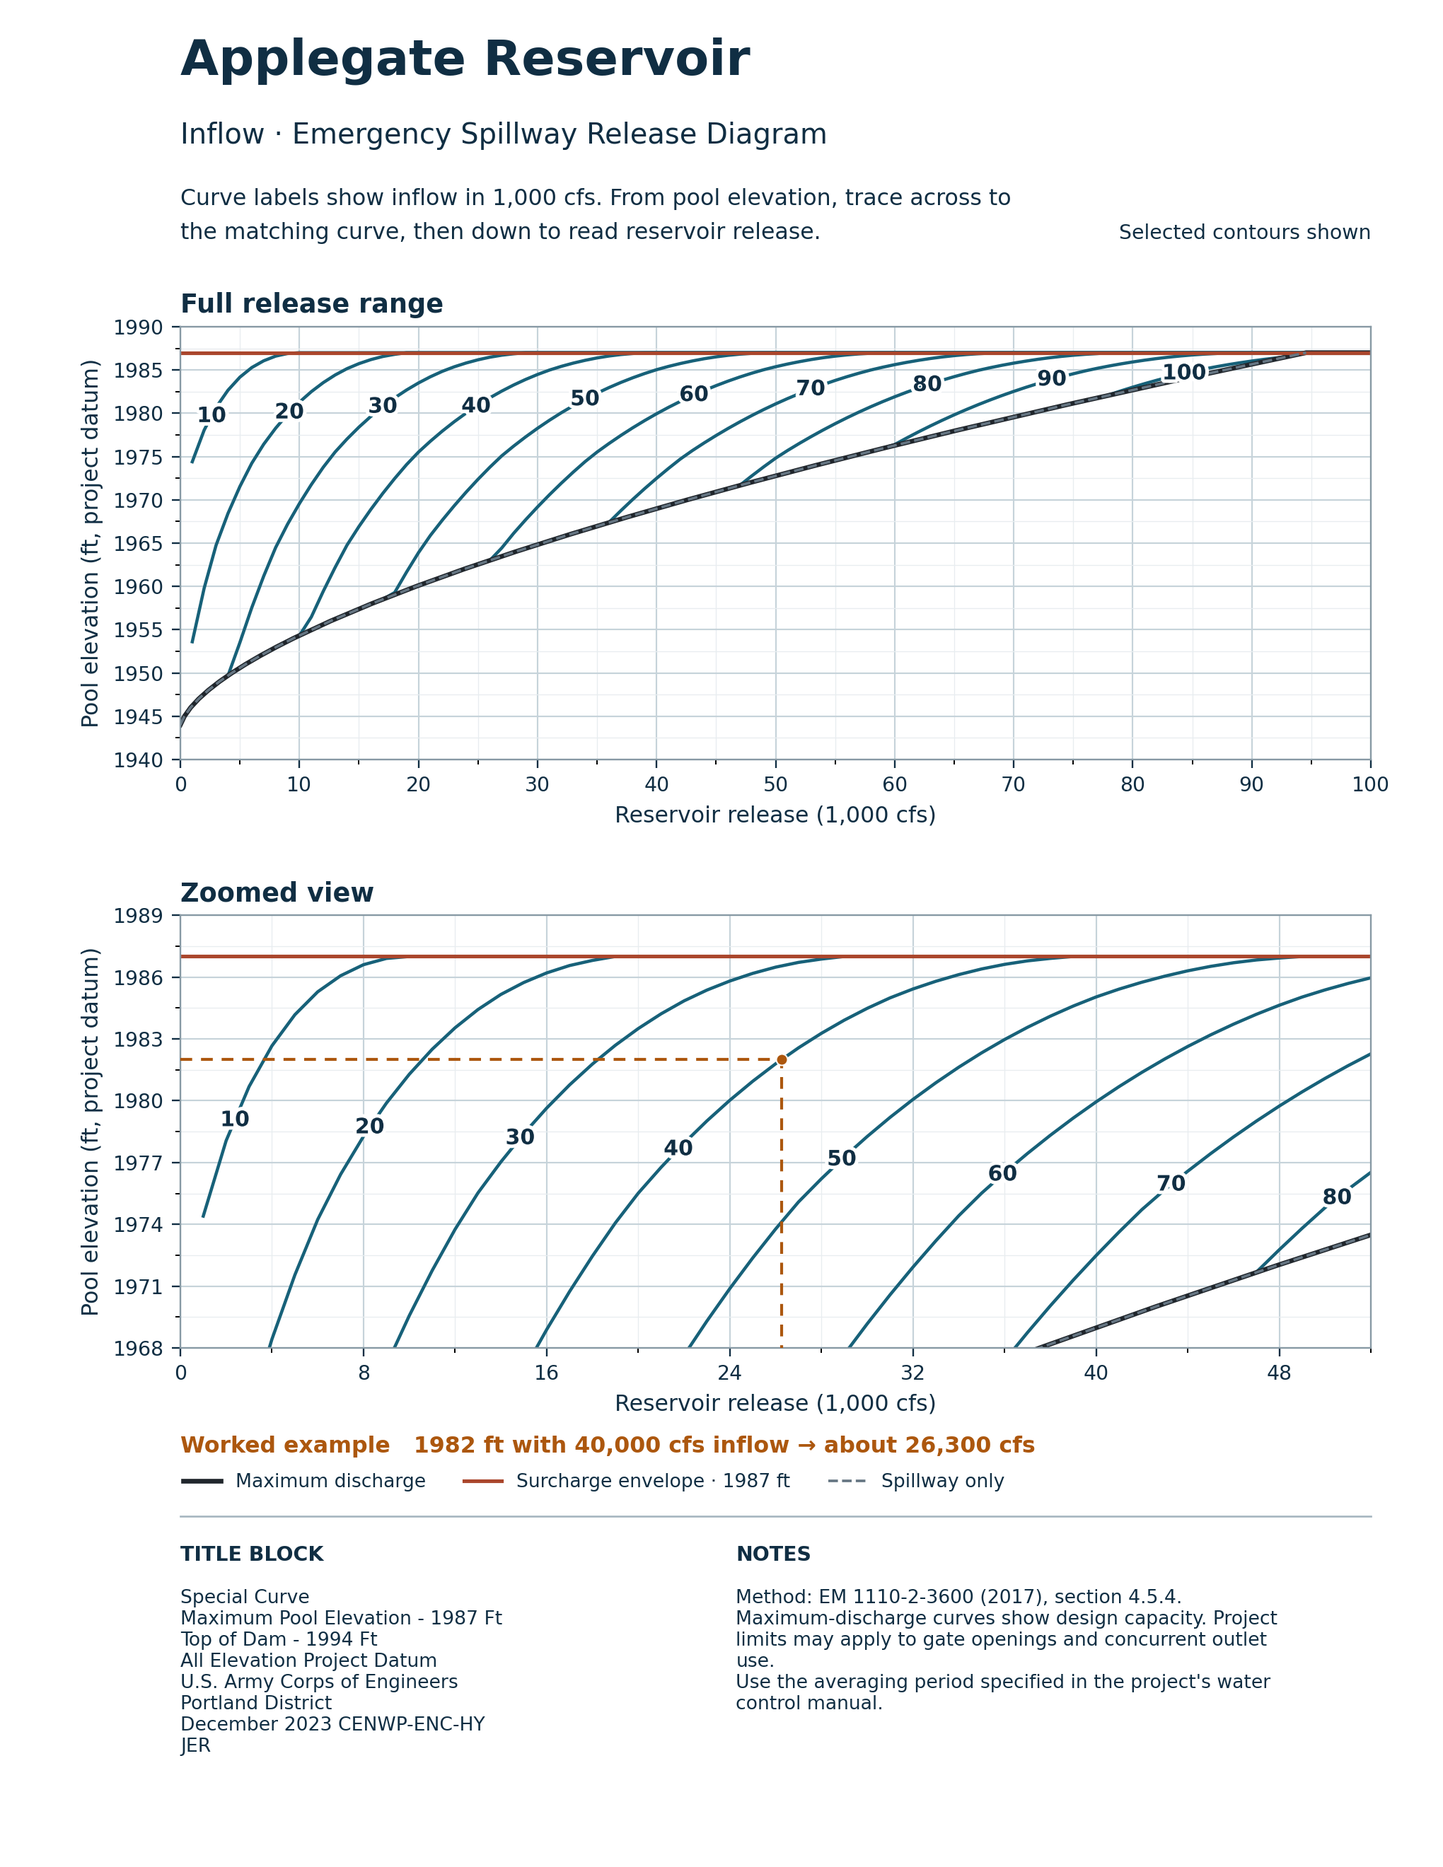
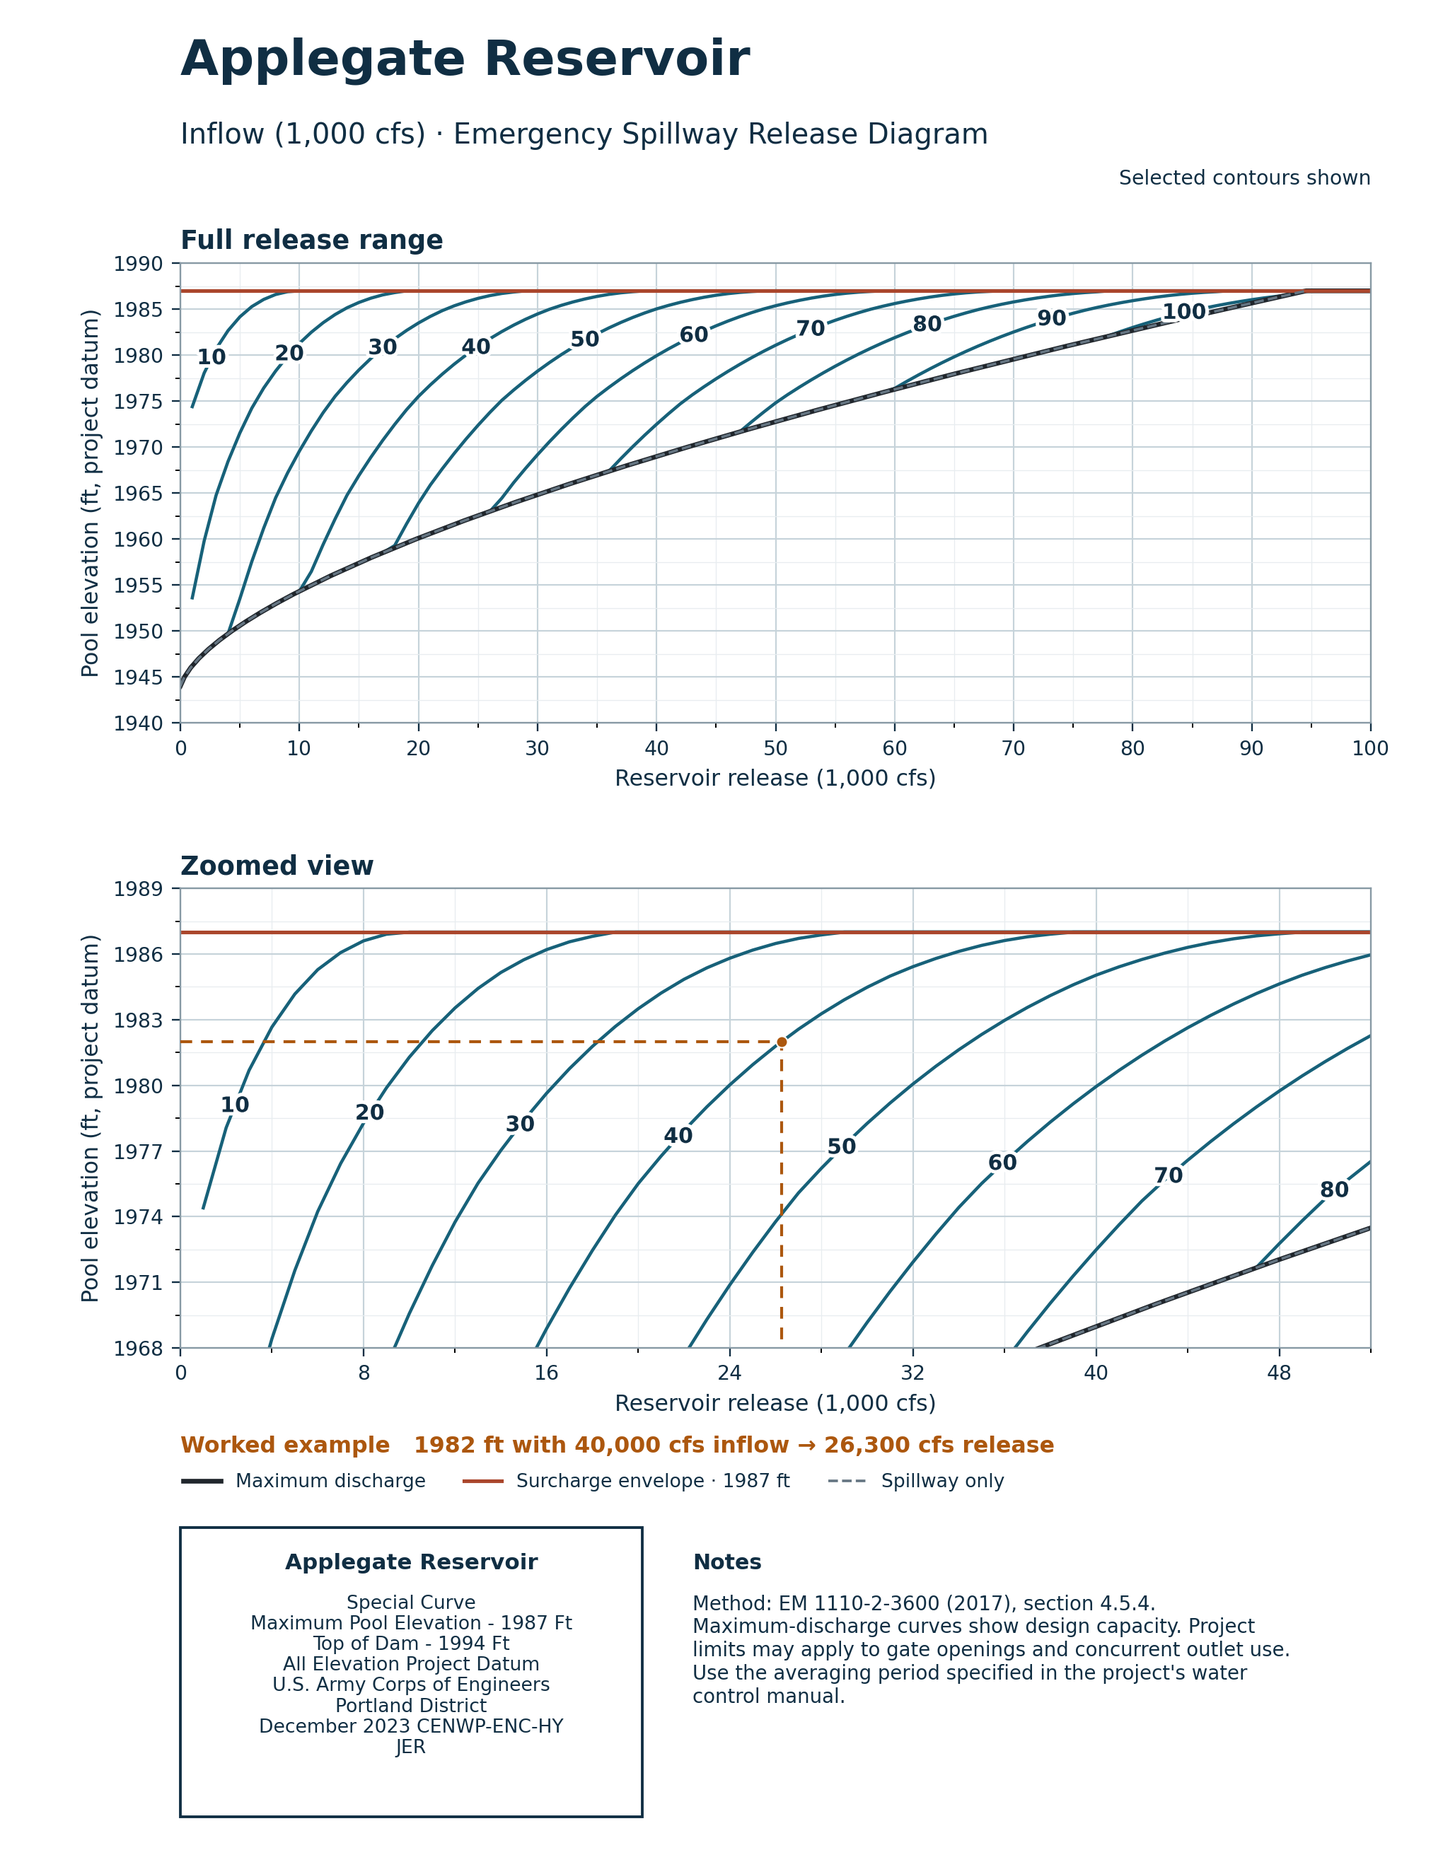
Publish complete ESRD inset and stacked PNG sets

diff --git a/sandbox/cot_reference_sheet.py b/sandbox/cot_reference_sheet.py
@@ -9,7 +9,9 @@ from cot_composite import SOURCE, read_recession_hours, run_legacy
 
 import matplotlib.patheffects as effects
 import matplotlib.pyplot as plt
+from matplotlib.patches import Rectangle
 from matplotlib.ticker import MultipleLocator
+from matplotlib.transforms import Bbox
 import numpy as np
 
 
@@ -203,10 +205,10 @@ def add_example(ax, lines, inflow, code):
     ax.scatter([release], [elevation], s=23, color=EXAMPLE, edgecolor="white",
                linewidth=0.6, zorder=6)
     measurement = f"{float(level) * 1000:,.0f} cfs inflow" if inflow else f"{level} ft/hr pool rise"
-    return f"{elevation:g} ft with {measurement} → about {round(release * 10) * 100:,} cfs"
+    return f"{elevation:g} ft with {measurement} → {round(release * 10) * 100:,} cfs release"
 
 
-def add_title_block(fig, full, inflow, code, *, landscape):
+def add_title_block(fig, full, inflow, code, title, *, landscape):
     """Set the source title-block text beside the interpretation notes."""
     source = full["dfTitleBlock"]
     lines = [" ".join(str(value).split()) for value in source.Text]
@@ -245,40 +247,75 @@ def add_title_block(fig, full, inflow, code, *, landscape):
             "Maximum-discharge curves show design capacity. Project limits may apply to gate openings and concurrent outlet use.",
             "Use the averaging period specified in the project's water control manual.",
         ]
-    x_left = 0.075 if landscape else 0.125
-    headings_y = 0.158 if landscape else 0.164
-    fig.add_artist(plt.Line2D([x_left, 0.95], [headings_y + 0.024] * 2,
-                             transform=fig.transFigure, color="#a6b6c0", lw=0.8))
-    for x, heading, body in (
-        (x_left, "TITLE BLOCK", "\n".join(lines)),
-        (0.51, heading, "\n".join(fill(note, width=76 if landscape else 58) for note in notes)),
-    ):
-        fig.text(x, headings_y, heading, color=INK, fontsize=8.5, weight="bold")
-        fig.text(x, headings_y - 0.015, body, color=INK, fontsize=8, va="top", linespacing=1.2)
+    left = 0.075 if landscape else 0.125
+    width = 0.27 if landscape else 0.32
+    bottom, top = 0.027, 0.182
+    fig.add_artist(Rectangle((left, bottom), width, top - bottom,
+                             transform=fig.transFigure, facecolor="white",
+                             edgecolor=INK, linewidth=1.15))
+    center = left + width / 2
+    fig.text(center, top - 0.014, title, color=INK, fontsize=9.3,
+             weight="bold", ha="center", va="top")
+    fig.text(center, top - 0.036, "\n".join(lines), color=INK, fontsize=8,
+             ha="center", va="top", linespacing=1.16)
+
+    notes_left = left + width + 0.035
+    fig.text(notes_left, top - 0.014, heading.capitalize(), color=INK,
+             fontsize=9, weight="bold", va="top")
+    body = "\n".join(fill(note, width=88 if landscape else 60,
+                          subsequent_indent="   " if note[:1].isdigit() else "")
+                     for note in notes)
+    fig.text(notes_left, top - 0.036, body, color=INK,
+             fontsize=8.3, va="top", linespacing=1.22)
+
+
+def make_inset(fig, main, lines):
+    """Place the zoom only where its panel and tick labels clear the plotted data."""
+    fig.canvas.draw()
+    paths = [line.get_path().transformed(main.transData + main.transAxes.inverted())
+             for line in lines]
+    sizes = ((0.49, 0.42), (0.46, 0.39), (0.43, 0.35))
+    placements = [(width, height, x, y)
+                  for width, height in sizes
+                  for x in (0.97 - width, 0.91 - width, 0.08)
+                  for y in (0.11, 0.18, 0.55)]
+    placements.extend((width, height, x, y)
+                      for width, height in (*sizes, (0.43, 0.32), (0.40, 0.31))
+                      for x in (0.97 - width, 0.91 - width, 0.08)
+                      for y in (0.075, 0.11, 0.18, 0.55))
+    for width, height, x, y in placements:
+        padded = Bbox.from_extents(x - 0.043, y - 0.057,
+                                   x + width + 0.006, y + height + 0.045)
+        if not any(path.intersects_bbox(padded, filled=False) for path in paths):
+            return main.inset_axes([x, y, width, height]), True
+
+    # Keep the zoom legible beside the main panel when an inset would cover data.
+    main.set_position([0.075, 0.289, 0.51, 0.56])
+    return fig.add_axes([0.635, 0.40, 0.315, 0.39]), False
 
 
 def write_sheet(full, detail, inflow, output, code="COT", title="Cottage Grove Reservoir",
                 formats=("pdf", "png"), inset=False):
     if inset:
         fig, main = plt.subplots(figsize=(13, 9))
-        fig.subplots_adjust(left=0.075, right=0.95, top=0.825, bottom=0.289)
-        zoom = main.inset_axes([0.48, 0.115, 0.49, 0.42])
+        fig.subplots_adjust(left=0.075, right=0.95, top=0.859, bottom=0.289)
     else:
         fig, (main, zoom) = plt.subplots(2, 1, figsize=(8.5, 11))
-        fig.subplots_adjust(left=0.125, right=0.95, top=0.825, bottom=0.278, hspace=0.36)
+        fig.subplots_adjust(left=0.125, right=0.95, top=0.859, bottom=0.278, hspace=0.36)
     left = 0.075 if inset else 0.125
     fig.text(left, 0.96, title, fontsize=21, color=INK, weight="bold")
     heading = "Inflow" if inflow else "Rate of rise"
-    units = "inflow in 1,000 cfs" if inflow else "pool rise in ft/hr"
-    fig.text(left, 0.923, f"{heading} · Emergency Spillway Release Diagram",
+    units = "1,000 cfs" if inflow else "ft/hr"
+    fig.text(left, 0.923, f"{heading} ({units}) · Emergency Spillway Release Diagram",
              fontsize=12, color=INK)
-    fig.text(left, 0.890, f"Curve labels show {units}. From pool elevation, trace across to",
-             fontsize=9.5, color=INK)
-    fig.text(left, 0.872, "the matching curve, then down to read reservoir release.",
-             fontsize=9.5, color=INK)
 
     full_lines, bounds = plot_panel(main, full, inflow, detail=False, code=code)
+    embedded = False
+    if inset:
+        zoom, embedded = make_inset(fig, main, [*full_lines, *bounds])
     zoom_lines, zoom_bounds = plot_panel(zoom, detail, inflow, detail=True, code=code)
+    if inset:
+        zoom.set(xlabel=None, ylabel=None)
     main.set_title("Full release range", loc="left", fontsize=11, weight="bold", color=INK)
     zoom.set_title("Zoomed view", loc="left", fontsize=11, weight="bold", color=INK)
     fig.legend(handles=bounds, loc="lower left", bbox_to_anchor=(left - 0.01, 0.192),
@@ -288,17 +325,17 @@ def write_sheet(full, detail, inflow, output, code="COT", title="Cottage Grove R
     shown_zoom = label_panel(zoom, zoom_lines, zoom_bounds)
     reduced = len(shown_main) < len(full_lines) or len(shown_zoom) < len(zoom_lines)
     if reduced:
-        fig.text(0.95, 0.872, "Selected contours shown", ha="right", fontsize=8.5, color=INK)
+        fig.text(0.95, 0.901, "Selected contours shown", ha="right", fontsize=8.5, color=INK)
     example = add_example(zoom, shown_zoom, inflow, code)
     if example:
         fig.text(left, 0.222, f"Worked example   {example}",
                  fontsize=9.5, color=EXAMPLE, weight="bold")
-    add_title_block(fig, full, inflow, code, landscape=inset)
+    add_title_block(fig, full, inflow, code, title, landscape=inset)
     name = f"{code}_{'inflow' if inflow else 'rate_of_rise'}_{'inset' if inset else 'reference'}"
     for extension in formats:
         fig.savefig(output / f"{name}.{extension}", dpi=240)
     plt.close(fig)
-    return len(shown_main), len(full_lines), len(shown_zoom), len(zoom_lines)
+    return len(shown_main), len(full_lines), len(shown_zoom), len(zoom_lines), embedded
 
 
 def main():

diff --git a/sandbox/reservoir_review.py b/sandbox/reservoir_review.py
@@ -48,16 +48,11 @@ def derive_zoom(full):
 
 def main():
     parser = argparse.ArgumentParser(description=__doc__)
-    parser.add_argument("--output", type=Path, default=SOURCE.parent / "review" / "esrd" / "png")
+    parser.add_argument("--output", type=Path, default=SOURCE.parent / "review" / "esrd")
     parser.add_argument("--reservoir", choices=RESERVOIRS, action="append")
-    parser.add_argument("--inset", action="store_true", help="Render the Cottage Grove inset trial")
+    parser.add_argument("--layout", choices=("both", "inset", "stacked"), default="both")
     args = parser.parse_args()
-    if args.inset and args.reservoir not in (None, ["COT"]):
-        parser.error("The inset trial is currently tuned for Cottage Grove.")
-    if args.inset:
-        args.reservoir = ["COT"]
-    output = args.output.resolve()
-    output.mkdir(parents=True, exist_ok=True)
+    layouts = {"stacked": ("png", False), "inset": ("inset", True)}
 
     for code in args.reservoir or RESERVOIRS:
         full_path, zoom_path = profiles(code)
@@ -68,16 +63,24 @@ def main():
             print(f"{code} inputs: {error}", flush=True)
             continue
 
-        for inflow in (True, False):
-            kind = "inflow" if inflow else "rate of rise"
-            try:
-                counts = write_sheet(full, detail, inflow, output, code=code,
-                            title=f"{RESERVOIRS[code]} Reservoir", formats=("png",), inset=args.inset)
-                print(f"{code} {kind}: saved (full {counts[0]}/{counts[1]}, zoom {counts[2]}/{counts[3]})", flush=True)
-            except ValueError as error:
-                print(f"{code} {kind}: {error}", flush=True)
-            finally:
-                plt.close("all")
+        for layout, (folder, inset) in layouts.items():
+            if args.layout != "both" and layout != args.layout:
+                continue
+            output = args.output.resolve() / folder
+            output.mkdir(parents=True, exist_ok=True)
+            for inflow in (True, False):
+                kind = "inflow" if inflow else "rate of rise"
+                try:
+                    counts = write_sheet(full, detail, inflow, output, code=code,
+                                         title=f"{RESERVOIRS[code]} Reservoir",
+                                         formats=("png",), inset=inset)
+                    placement = "embedded" if counts[4] else "beside chart" if inset else "stacked"
+                    print(f"{code} {kind} {layout}: {placement} "
+                          f"(full {counts[0]}/{counts[1]}, zoom {counts[2]}/{counts[3]})", flush=True)
+                except ValueError as error:
+                    print(f"{code} {kind} {layout}: {error}", flush=True)
+                finally:
+                    plt.close("all")
 
 
 if __name__ == "__main__":

diff --git a/review/esrd/README.md b/review/esrd/README.md
@@ -1,34 +1,31 @@
 # ESRD review sheets
 
-Open the [PNG folder](png/) in an image viewer to cycle through the
-letter-size inflow and rate-of-rise sheets. Both include
-the full range, a zoomed view, directly labeled contours, and a worked example
-where a unique crossing is available. The dashed guide shows how to read the
-example from the chart. These sheets are for review. The
-prior PDF edition remains in this directory.
-
-Cottage Grove also has two landscape inset trials. The zoom sits in the open
-area below the main curves. [Inflow inset](inset/COT_inflow_inset.png) ·
-[Rate-of-rise inset](inset/COT_rate_of_rise_inset.png).
+Open the [stacked PNG folder](png/) or the [inset PNG folder](inset/) in an
+image viewer to cycle through the sheets. Each layout has inflow and
+rate-of-rise versions, with directly labeled contours, a boxed project title
+block, and notes. Worked examples label the result in cfs of release. Insets retain
+tick marks and values, with axis titles on the main plot. The prior PDF
+edition remains in this directory.
 
 | Reservoir | Inflow | Rate of rise | Profiles |
 | --- | --- | --- | --- |
-| Applegate | [PNG](png/APP_inflow_reference.png) | [PNG](png/APP_rate_of_rise_reference.png) | `APP_CONFIG.csv` + derived zoom |
-| Blue River | [PNG](png/BLU_inflow_reference.png) | [PNG](png/BLU_rate_of_rise_reference.png) | `BLU_CONFIG.csv` + `BLU_Small_CONFIG.csv` |
-| Cougar | [PNG](png/CGR_inflow_reference.png) | [PNG](png/CGR_rate_of_rise_reference.png) | `CGR_CONFIG.csv` + `CGR_Small_CONFIG.csv` |
-| Cottage Grove | [PNG](png/COT_inflow_reference.png) | [PNG](png/COT_rate_of_rise_reference.png) | `COT_CONFIG.csv` + `COT_Small_CONFIG.csv` |
-| Detroit | [PNG](png/DET_inflow_reference.png) | [PNG](png/DET_rate_of_rise_reference.png) | `Script_Folder/out/DET_CONFIG.csv` + derived zoom |
-| Dorena | [PNG](png/DOR_inflow_reference.png) | [PNG](png/DOR_rate_of_rise_reference.png) | `DOR_CONFIG.csv` + `DOR_Small_CONFIG.csv` |
-| Fall Creek | [PNG](png/FAL_inflow_reference.png) | [PNG](png/FAL_rate_of_rise_reference.png) | `FAL_CONFIG.csv` + `FAL_Small_CONFIG.csv` |
-| Foster | [PNG](png/FOS_inflow_reference.png) | [PNG](png/FOS_rate_of_rise_reference.png) | `FOS_CONFIG.csv` + `FOS_Small_CONFIG.csv` |
-| Fern Ridge | [PNG](png/FRN_inflow_reference.png) | [PNG](png/FRN_rate_of_rise_reference.png) | `FRN_CONFIG_2.csv` + `FRN_Small_CONFIG_2.csv` |
-| Green Peter | [PNG](png/GPR_inflow_reference.png) | [PNG](png/GPR_rate_of_rise_reference.png) | `GPR_CONFIG.csv` + `GPR_Small_CONFIG.csv` |
-| Hills Creek | [PNG](png/HCR_inflow_reference.png) | [PNG](png/HCR_rate_of_rise_reference.png) | `HCR_CONFIG.csv` + `HCR_Small_CONFIG.csv` |
-| Lookout Point | [PNG](png/LOP_inflow_reference.png) | [PNG](png/LOP_rate_of_rise_reference.png) | `LOP_CONFIG.csv` + `LOP_Small_CONFIG.csv` |
-| Lost Creek | [PNG](png/LOS_inflow_reference.png) | [PNG](png/LOS_rate_of_rise_reference.png) | `LOS_CONFIG.csv` + derived zoom |
+| Applegate | [Stacked](png/APP_inflow_reference.png) · [Inset](inset/APP_inflow_inset.png) | [Stacked](png/APP_rate_of_rise_reference.png) · [Inset](inset/APP_rate_of_rise_inset.png) | `APP_CONFIG.csv` + derived zoom |
+| Blue River | [Stacked](png/BLU_inflow_reference.png) · [Inset](inset/BLU_inflow_inset.png) | [Stacked](png/BLU_rate_of_rise_reference.png) · [Inset](inset/BLU_rate_of_rise_inset.png) | `BLU_CONFIG.csv` + `BLU_Small_CONFIG.csv` |
+| Cougar | [Stacked](png/CGR_inflow_reference.png) · [Inset](inset/CGR_inflow_inset.png) | [Stacked](png/CGR_rate_of_rise_reference.png) · [Inset](inset/CGR_rate_of_rise_inset.png) | `CGR_CONFIG.csv` + `CGR_Small_CONFIG.csv` |
+| Cottage Grove | [Stacked](png/COT_inflow_reference.png) · [Inset](inset/COT_inflow_inset.png) | [Stacked](png/COT_rate_of_rise_reference.png) · [Inset](inset/COT_rate_of_rise_inset.png) | `COT_CONFIG.csv` + `COT_Small_CONFIG.csv` |
+| Detroit | [Stacked](png/DET_inflow_reference.png) · [Inset](inset/DET_inflow_inset.png) | [Stacked](png/DET_rate_of_rise_reference.png) · [Inset](inset/DET_rate_of_rise_inset.png) | `Script_Folder/out/DET_CONFIG.csv` + derived zoom |
+| Dorena | [Stacked](png/DOR_inflow_reference.png) · [Inset](inset/DOR_inflow_inset.png) | [Stacked](png/DOR_rate_of_rise_reference.png) · [Inset](inset/DOR_rate_of_rise_inset.png) | `DOR_CONFIG.csv` + `DOR_Small_CONFIG.csv` |
+| Fall Creek | [Stacked](png/FAL_inflow_reference.png) · [Inset](inset/FAL_inflow_inset.png) | [Stacked](png/FAL_rate_of_rise_reference.png) · [Inset](inset/FAL_rate_of_rise_inset.png) | `FAL_CONFIG.csv` + `FAL_Small_CONFIG.csv` |
+| Foster | [Stacked](png/FOS_inflow_reference.png) · [Inset](inset/FOS_inflow_inset.png) | [Stacked](png/FOS_rate_of_rise_reference.png) · [Inset](inset/FOS_rate_of_rise_inset.png) | `FOS_CONFIG.csv` + `FOS_Small_CONFIG.csv` |
+| Fern Ridge | [Stacked](png/FRN_inflow_reference.png) · [Inset](inset/FRN_inflow_inset.png) | [Stacked](png/FRN_rate_of_rise_reference.png) · [Inset](inset/FRN_rate_of_rise_inset.png) | `FRN_CONFIG_2.csv` + `FRN_Small_CONFIG_2.csv` |
+| Green Peter | [Stacked](png/GPR_inflow_reference.png) · [Inset](inset/GPR_inflow_inset.png) | [Stacked](png/GPR_rate_of_rise_reference.png) · [Inset](inset/GPR_rate_of_rise_inset.png) | `GPR_CONFIG.csv` + `GPR_Small_CONFIG.csv` |
+| Hills Creek | [Stacked](png/HCR_inflow_reference.png) · [Inset](inset/HCR_inflow_inset.png) | [Stacked](png/HCR_rate_of_rise_reference.png) · [Inset](inset/HCR_rate_of_rise_inset.png) | `HCR_CONFIG.csv` + `HCR_Small_CONFIG.csv` |
+| Lookout Point | [Stacked](png/LOP_inflow_reference.png) · [Inset](inset/LOP_inflow_inset.png) | [Stacked](png/LOP_rate_of_rise_reference.png) · [Inset](inset/LOP_rate_of_rise_inset.png) | `LOP_CONFIG.csv` + `LOP_Small_CONFIG.csv` |
+| Lost Creek | [Stacked](png/LOS_inflow_reference.png) · [Inset](inset/LOS_inflow_inset.png) | [Stacked](png/LOS_rate_of_rise_reference.png) · [Inset](inset/LOS_rate_of_rise_inset.png) | `LOS_CONFIG.csv` + derived zoom |
 | Mossyrock | — | — | `MOS_Table_CONFIG.csv` only |
 
-The zoom uses the checked-in small profile where available. Applegate, Detroit,
+Inset placement uses the open areas of the full-range chart to keep the main
+curves visible. The zoom uses the checked-in small profile where available. Applegate, Detroit,
 and Lost Creek use a narrower window of their full profile. Detroit uses the
 full CONFIG archived with the old outputs. Fern Ridge uses the matching
 revision 2 pair. On sheets marked “Selected contours shown,” the renderer
@@ -46,7 +43,8 @@ inflow note. In those cases the sheet refers to the water control manual for
 the averaging period. Applegate and Lost Creek use method and interpretation
 notes because the draft PDF does not include those projects.
 
-To regenerate the PNGs from the repository root, run
+To regenerate both layouts from the repository root, run
 `/workspace/.esrd-venv/bin/python sandbox/reservoir_review.py`.
-Use `--reservoir COT` for one reservoir or `--output DIRECTORY` for a
-separate output location. For the inset trial, add `--inset --output review/esrd/inset`.
+Use `--layout inset` or `--layout stacked` for one layout,
+`--reservoir COT` for one reservoir, or `--output DIRECTORY` to write both
+layout folders to another location.
